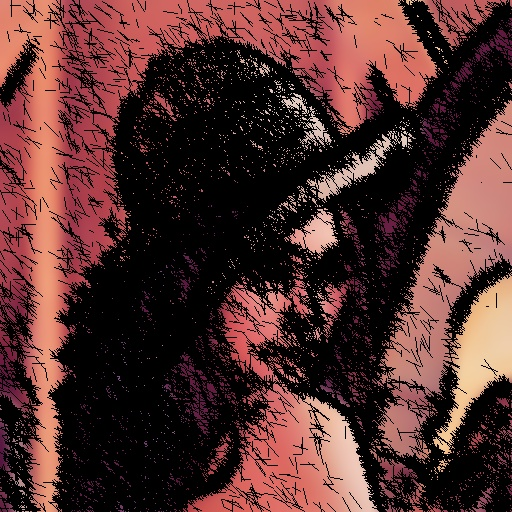
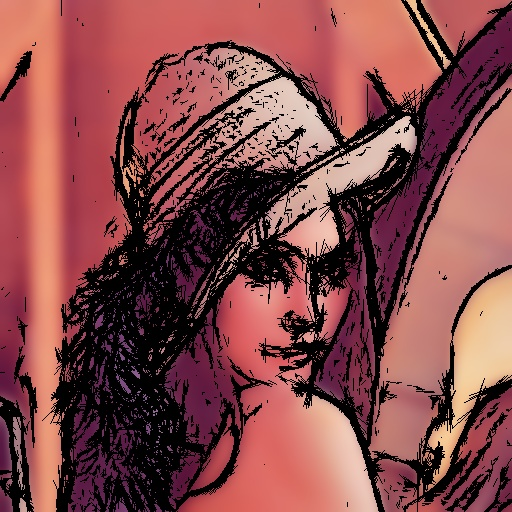
update naive

diff --git a/scripts/main.py b/scripts/main.py
@@ -1,19 +1,23 @@
 import cv2 as cv
 import numpy as np
-import random
-from matplotlib import pyplot as plt
 
+# Parameters
+L = 4   # Length of a strokes
+sigma_gaussian = 10     # standard deviation >=0
+epsilon = 2     # level >=0
 # Read image
 img = cv.imread('./../sources/lena.png',cv.IMREAD_COLOR)
 img_ycrcb = cv.cvtColor(img, cv.COLOR_BGR2YCrCb)
 img_y = img_ycrcb[:,:,0]
 
 # Gaussian filter
-gaussian = cv.GaussianBlur(img_y,(5,5),0)
+gaussian = cv.GaussianBlur(img_y,(5,5),sigma_gaussian)
 cv.imwrite("../output/gaussian.jpg", gaussian)
 
 # Gradient
 sobel = cv.Sobel(gaussian, cv.CV_64F, 1, 1, ksize=1)
+sobelx = cv.Sobel(gaussian, cv.CV_64F, 1, 0, ksize=1)
+sobely = cv.Sobel(gaussian, cv.CV_64F, 0, 1, ksize=1)
 cv.imwrite("../output/sobel.jpg", sobel)
 
 # Initialize result image
@@ -21,29 +25,23 @@ height, width = sobel.shape
 result = np.zeros((height,width), np.uint8)
 result[:,:] = 255
 
-tmp = np.zeros((height,width), np.uint8)
-
 # Random position
 cpt = 0
-
+tmp = np.zeros((height,width), np.uint8)
 for i in range(sobel.shape[0]):
     for j in range(sobel.shape[1]):
-        if sobel[i,j]>2:
-            u = random.randrange(9)
-            v = random.randrange(9)
+        if sobel[i,j]>epsilon:
+            uv = [L/2 *sobely[i,j]/sobel[i,j], L/2 *-sobelx[i,j]/sobel[i,j]]
             tmp[:,:] = 0
-            cv.line(tmp, (j - u, i - v), (j + u, i + v), 230, 1)
+            cv.line(tmp, (j - int(uv[0]), i - int(uv[1])), (j + int(uv[0]), i + int(uv[1])), 230, 1)
             result+=tmp
             cpt+=1
 
-print(cpt)
-cv.imwrite("../output/result.jpg", result)
+print("number of strokes : "+ str(cpt))
+cv.imwrite("../output/res_greyscale.jpg", result)
 
 
 # Colorisation
-print(img.shape)
-result3d = img
-print(result.shape)
 gaussiancolor = cv.GaussianBlur(img,(35,35),0)
 for i in range(result.shape[0]):
     for j in range(result.shape[1]):
@@ -52,8 +50,3 @@ for i in range(result.shape[0]):
             gaussiancolor[i, j, 1] =0
             gaussiancolor[i, j, 2] =0
 cv.imwrite("../output/res_color.jpg", gaussiancolor)
-
-
-
-cv.waitKey(0)
-cv.destroyAllWindows()
